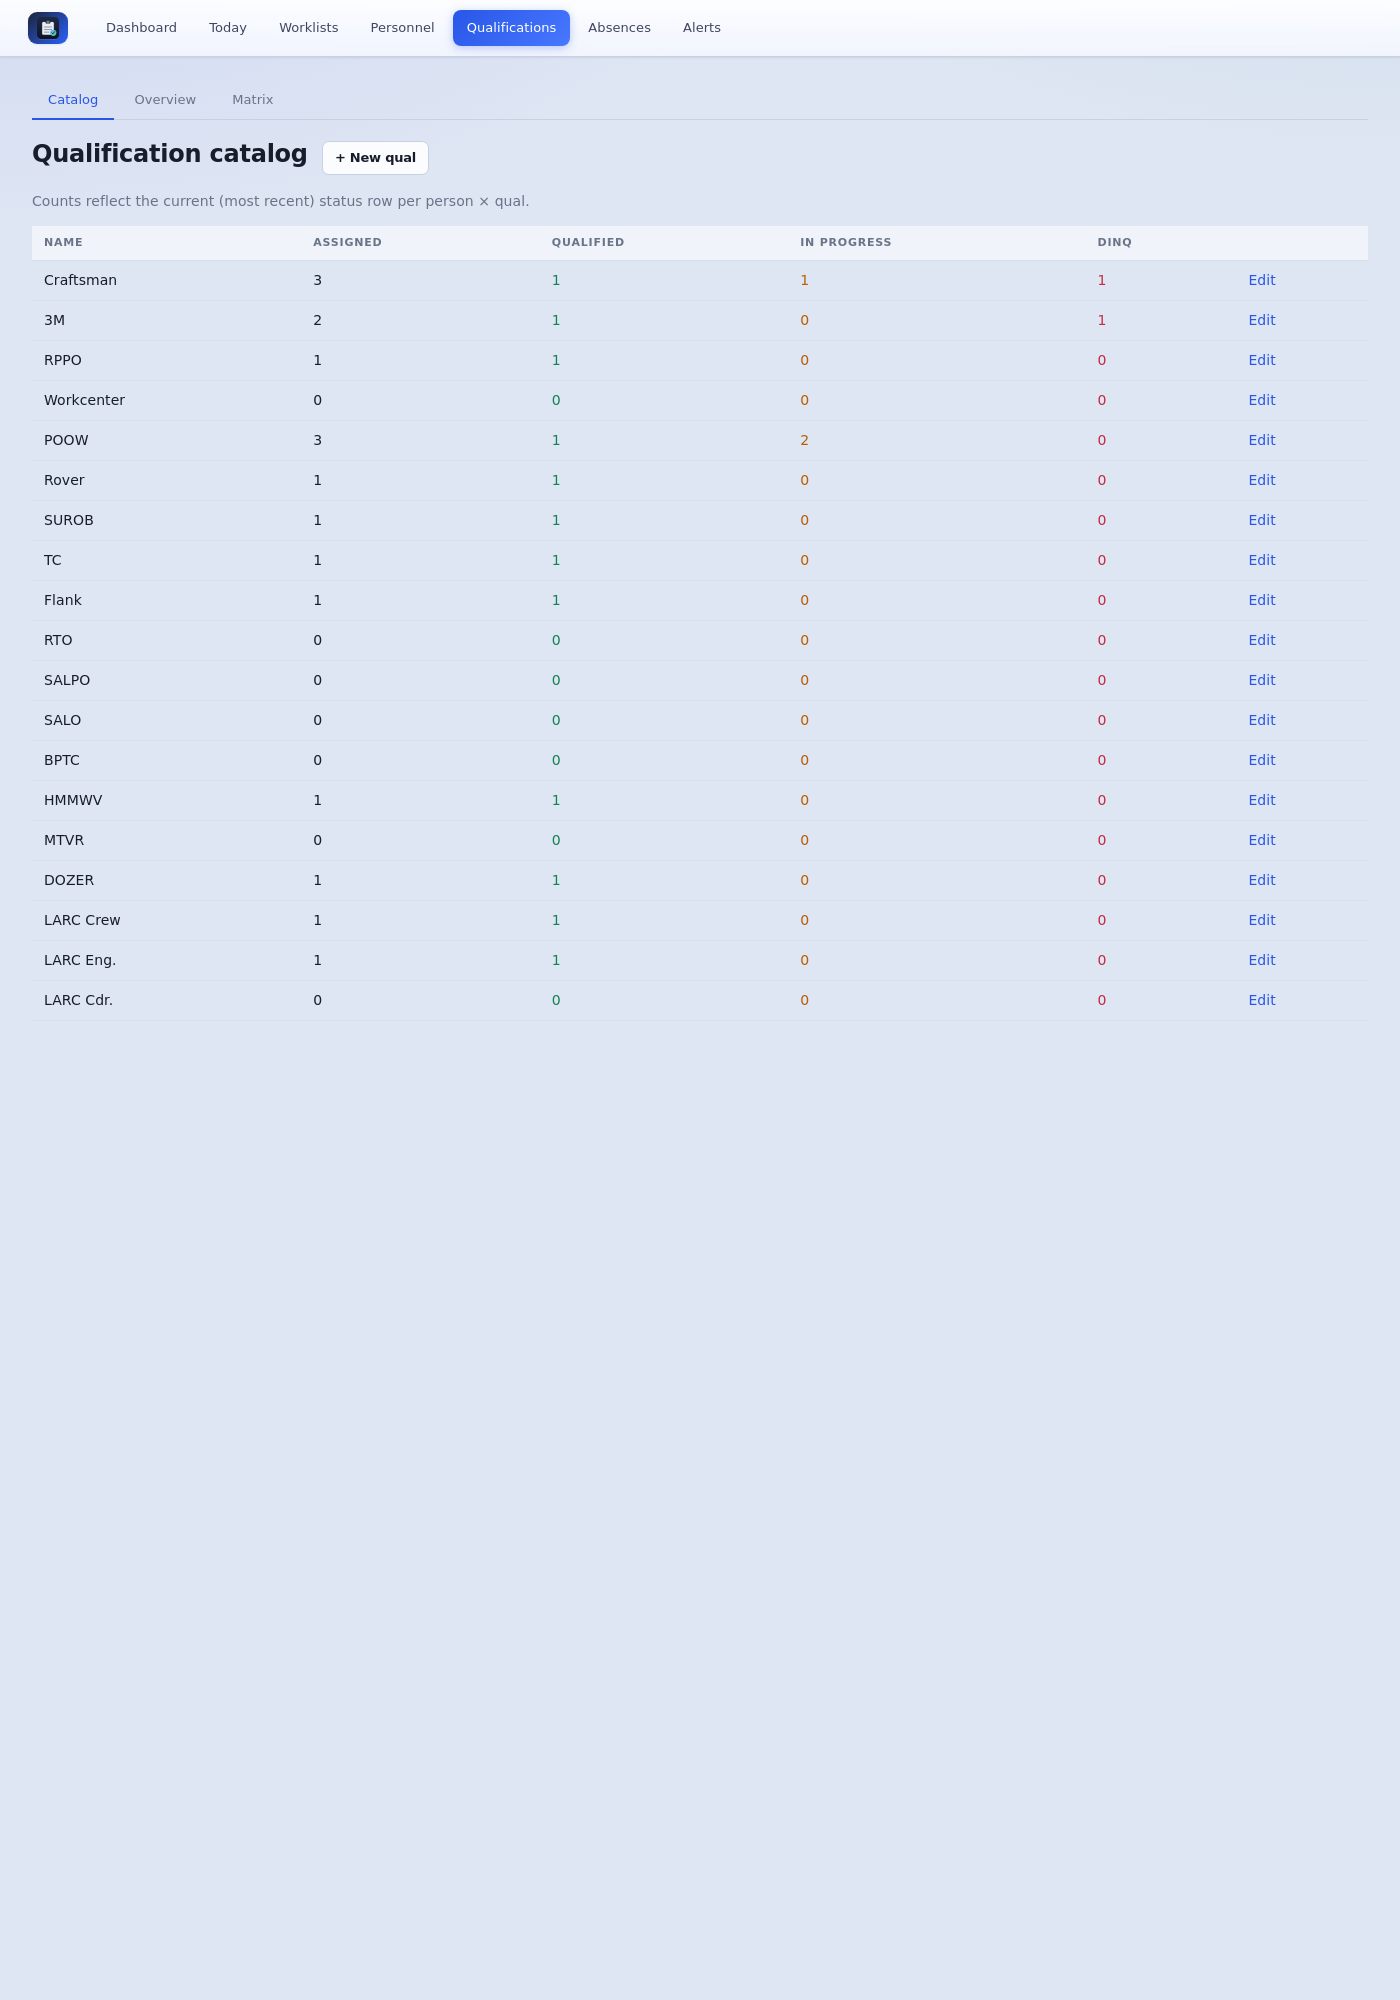
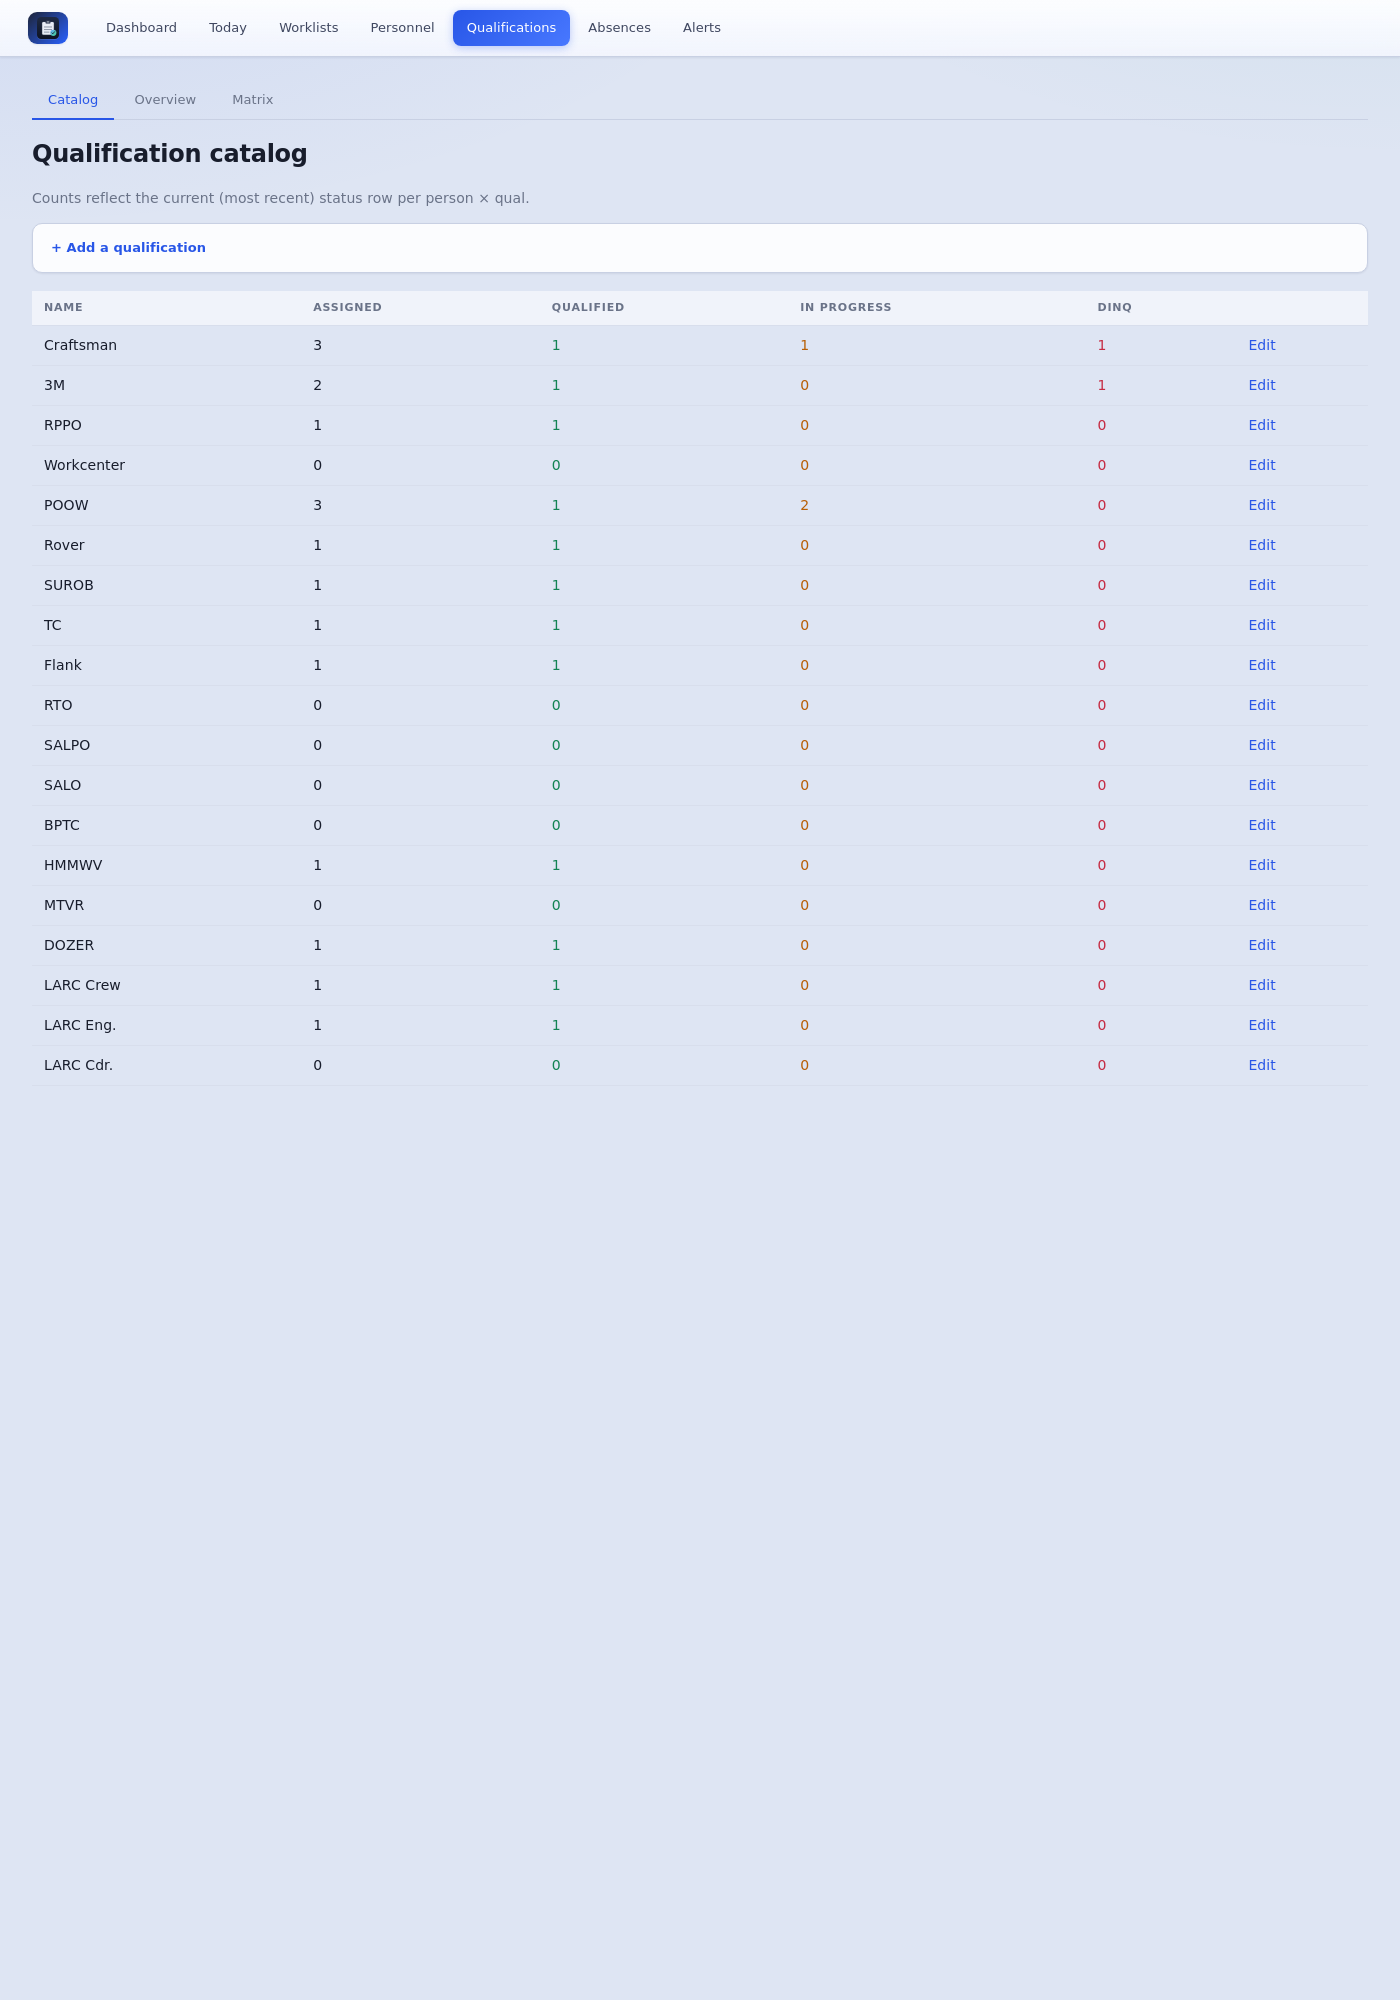
Inline create forms on /worklists and /quals

Changed region(s): [[0.0307, 0.062, 0.9829, 0.527]]

diff --git a/app/static/app.css b/app/static/app.css
@@ -462,6 +462,25 @@ ul.task-history li:last-child { border-bottom: 0; }
 .wizard-finish { margin: 24px 0 8px; text-align: right; }
 .wizard-finish .btn-link { font-weight: 600; padding: 9px 18px; background: var(--panel); border-color: var(--accent); color: var(--accent); }
 
+/* Inline-create disclosure used on listing pages. */
+details.inline-create {
+  margin: 12px 0 18px;
+  background: var(--panel);
+  border: 1px solid var(--border);
+  border-radius: var(--radius);
+  box-shadow: var(--shadow-sm);
+  padding: 8px 14px;
+}
+details.inline-create > summary {
+  list-style: none; cursor: pointer; padding: 6px 4px;
+  color: var(--accent); font-weight: 600; font-size: 13px;
+  user-select: none;
+}
+details.inline-create > summary::-webkit-details-marker { display: none; }
+details.inline-create[open] { padding-bottom: 14px; }
+details.inline-create[open] > summary { border-bottom: 1px solid var(--border-soft); margin-bottom: 10px; }
+details.inline-create .quick-add { background: transparent; border: 0; padding: 0; margin: 0; }
+
 /* Combobox chips */
 .combobox-chips { list-style: none; padding: 0; margin: 6px 0 0; display: flex; flex-wrap: wrap; gap: 4px; }
 .combobox-chip { background: var(--panel-2); border: 1px solid var(--border); border-radius: 999px; padding: 3px 11px; font-size: 12px; cursor: pointer; color: var(--text); }

diff --git a/app/templates/worklists/list.html b/app/templates/worklists/list.html
@@ -33,8 +33,26 @@
   {% endif %}
 {% endmacro %}
 
-<h1>Weekly worklists <a class="btn-link" href="/worklists/new">+ New week</a></h1>
-<p class="muted">Suggested next Monday: <code>{{ suggested_monday }}</code></p>
+<h1>Weekly worklists</h1>
+
+<details class="inline-create" open>
+  <summary>+ Start a new week</summary>
+  <form method="post" action="/worklists" class="form quick-add">
+    <div class="quick-add-row">
+      <label>Week starting (any day; snaps to Monday)
+        <input type="date" name="week_starting" value="{{ suggested_monday }}" required />
+      </label>
+      <label class="grow">Name (optional)
+        <input name="name" placeholder="auto: Week N Month YYYY" />
+      </label>
+    </div>
+    <label>Notes <textarea name="notes" rows="2" placeholder="optional"></textarea></label>
+    <div class="form-actions">
+      <button type="submit">Create &amp; set up tasks &rsaquo;</button>
+      <span class="muted small">You'll go straight to the task wizard.</span>
+    </div>
+  </form>
+</details>
 
 <div class="search-row">
   <label>Filter

diff --git a/app/templates/quals/list.html b/app/templates/quals/list.html
@@ -2,8 +2,20 @@
 {% block title %}Qualifications{% endblock %}
 {% block content %}
 {% include "quals/_tabs.html" %}
-<h1>Qualification catalog <a class="btn-link" href="/quals/new">+ New qual</a></h1>
+<h1>Qualification catalog</h1>
 <p class="muted">Counts reflect the current (most recent) status row per person × qual.</p>
+
+<details class="inline-create">
+  <summary>+ Add a qualification</summary>
+  <form method="post" action="/quals" class="form quick-add">
+    <div class="quick-add-row">
+      <label class="grow">Name
+        <input name="name" placeholder="e.g. POOW, HMMWV, Tagout Authority" required />
+      </label>
+      <button type="submit">Add</button>
+    </div>
+  </form>
+</details>
 
 <table class="grid">
   <thead>
